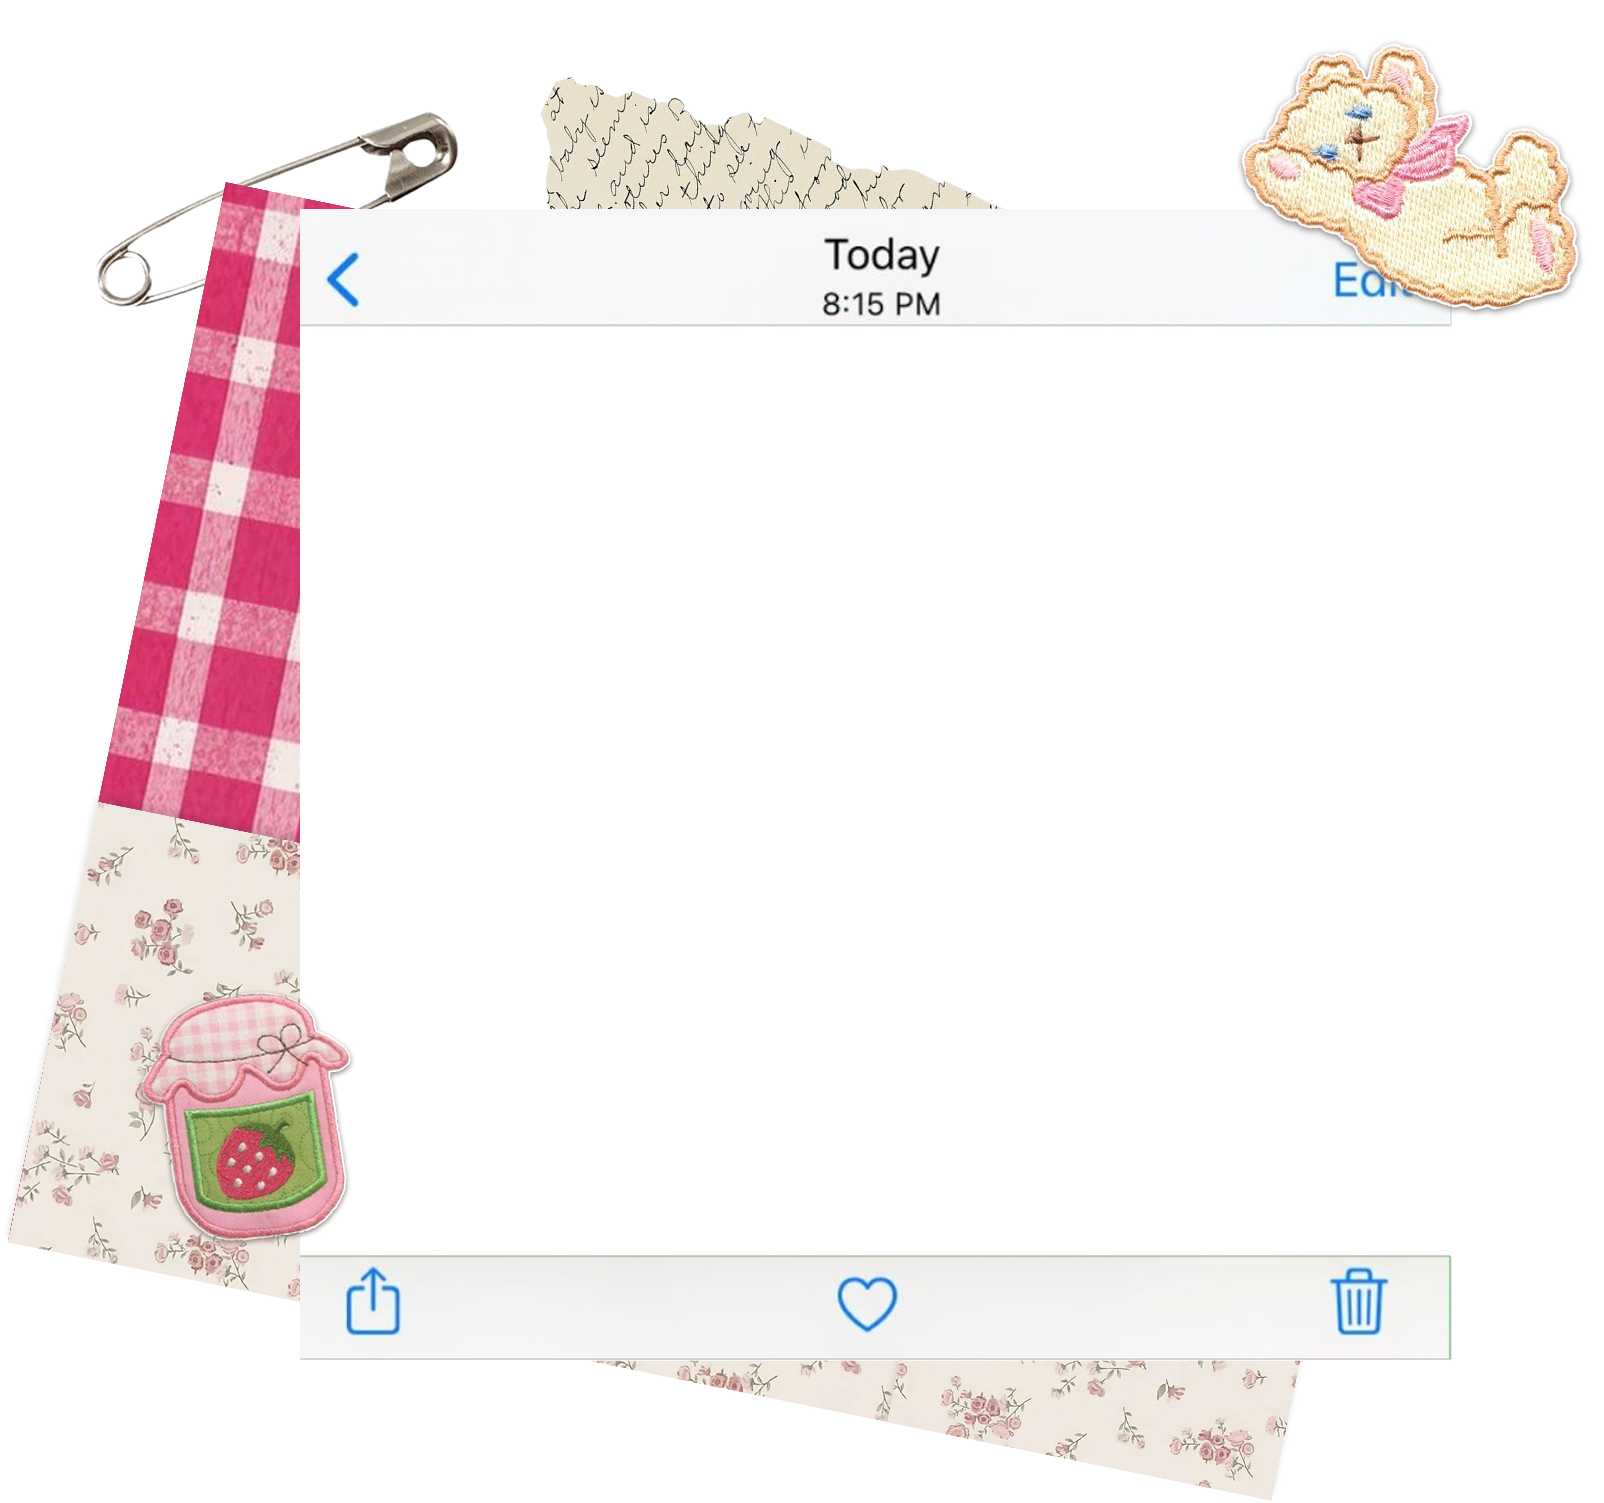
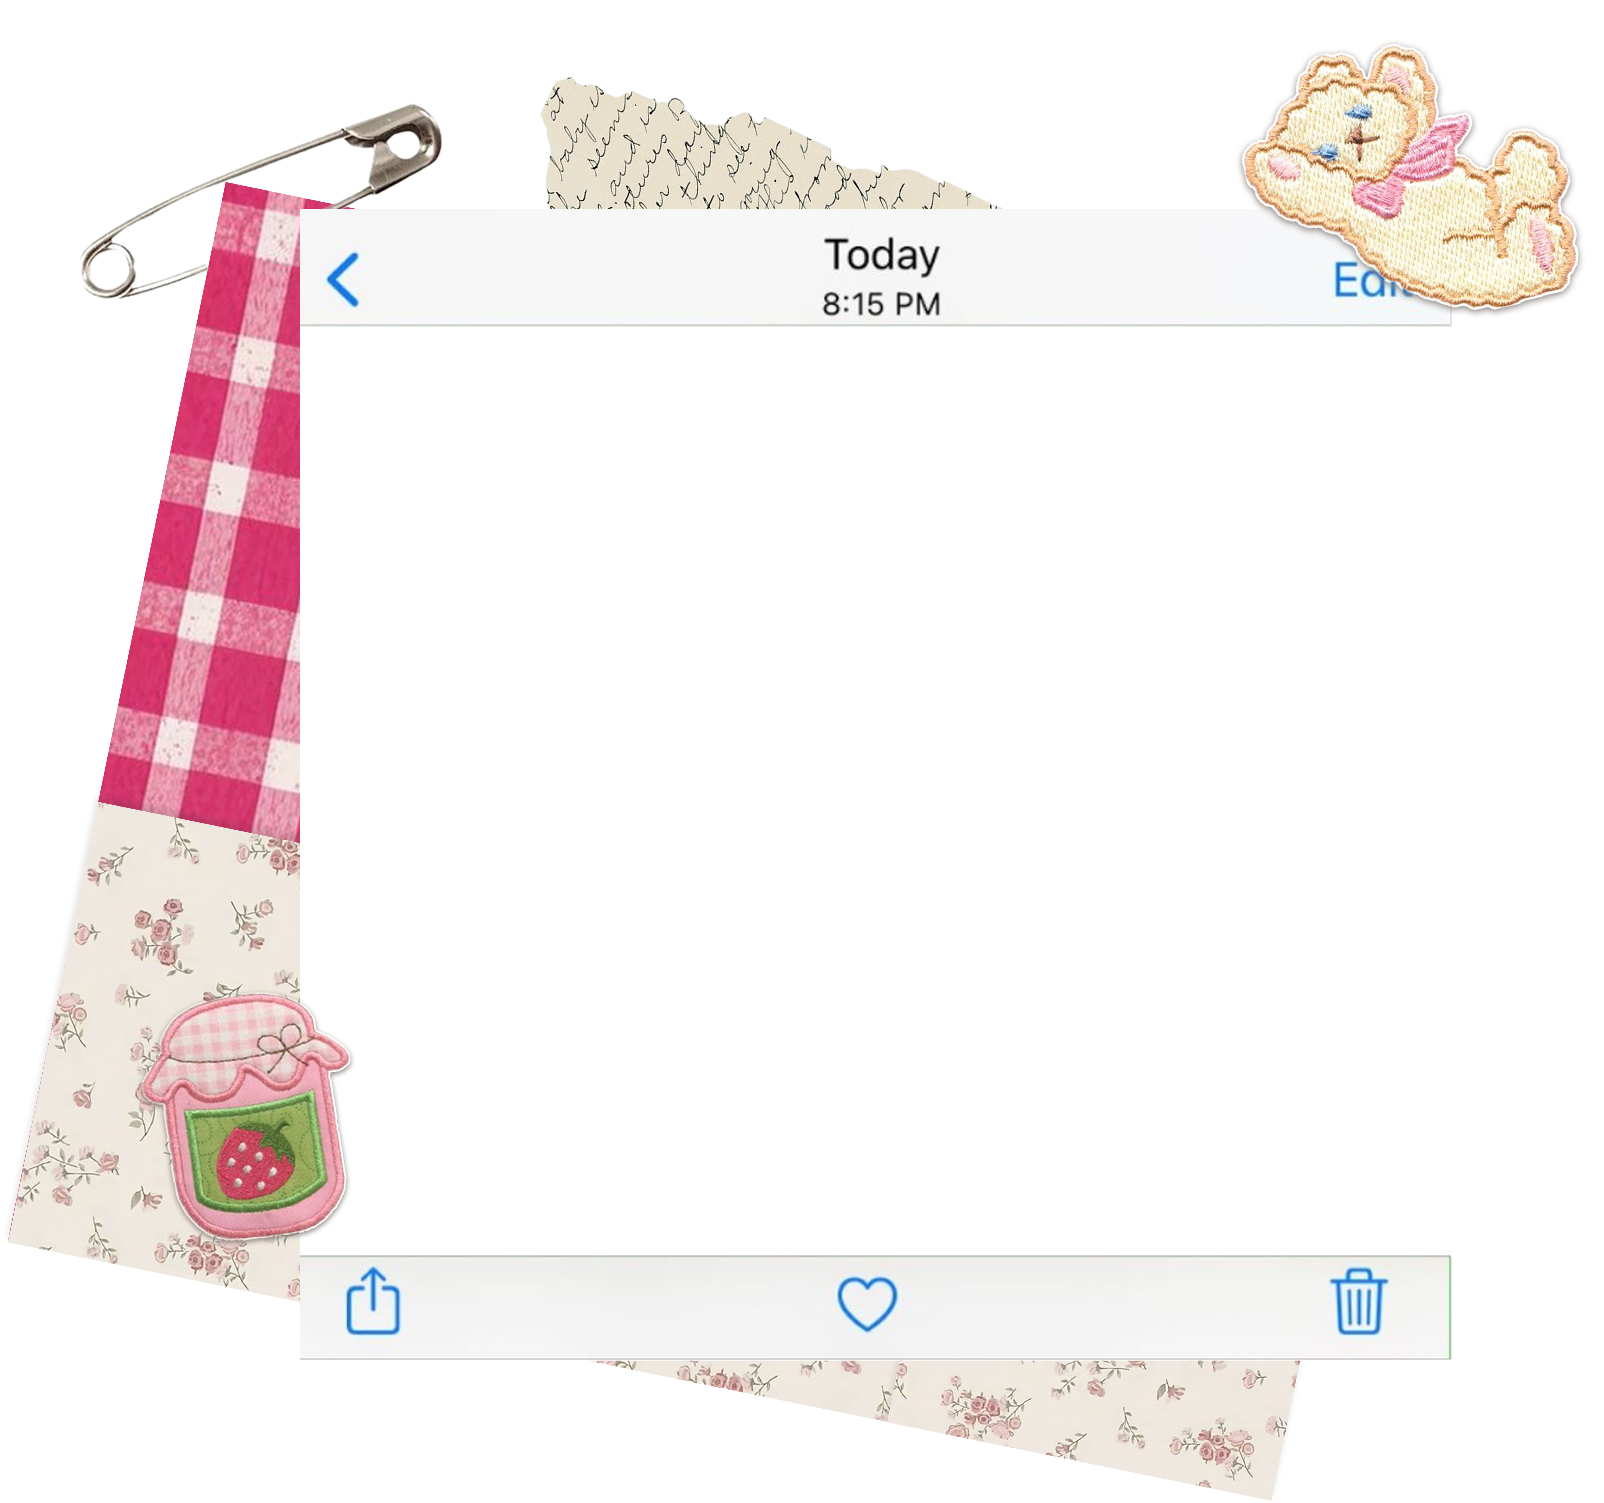
changes

Changed region(s): [[0.1247, 0.0612, 0.2805, 0.153], [0.0312, 0.1224, 0.1247, 0.2142]]

diff --git a/main.html b/main.html
@@ -53,8 +53,8 @@
             <span class="reaction-tray" id="reaction-tray"><span>✏</span><span>📐</span><span>🎨</span><span>✨</span></span>
             <span class="role-message"><span>A </span><span id="role-word">UX Designer</span></span>
           </div>
-          <img class="frame-art" src="Assets/Frame.png" alt="">
-          <img class="frame-art frame-jam-front" src="Assets/Frame.png" alt="" aria-hidden="true">
+          <img class="frame-art" src="Assets/Frame.png?v=20261125-2" alt="">
+          <img class="frame-art frame-jam-front" src="Assets/Frame.png?v=20261125-2" alt="" aria-hidden="true">
           <svg class="role-doodle bow-doodle is-active" viewBox="0 0 120 145" aria-hidden="true">
             <path class="ink" stroke-width="4" d="M58 48 C42 26 21 25 17 37 C10 53 30 66 56 53 M64 47 C84 26 102 30 103 43 C105 58 85 65 65 54"/>
             <path class="ink" stroke-width="3.4" d="M55 55 C43 74 25 91 28 111 C30 119 37 121 42 114 M65 55 C75 73 91 91 87 107 C84 115 79 114 77 109"/>

diff --git a/hero-video-preview.html b/hero-video-preview.html
@@ -82,8 +82,8 @@
         <span class="reaction-tray" id="reaction-tray"><span>✏</span><span>📐</span><span>🎨</span><span>✨</span></span>
         <span class="role-message"><span>A </span><span id="role-word">UX Designer</span></span>
       </div>
-      <img class="frame-art" src="Assets/Frame.png" alt="">
-      <img class="frame-art frame-jam-front" src="Assets/Frame.png" alt="" aria-hidden="true">
+      <img class="frame-art" src="Assets/Frame.png?v=20261125-2" alt="">
+      <img class="frame-art frame-jam-front" src="Assets/Frame.png?v=20261125-2" alt="" aria-hidden="true">
       <svg class="role-doodle bow-doodle is-active" viewBox="0 0 120 145" aria-hidden="true">
         <path class="ink" stroke-width="4" d="M58 48 C42 26 21 25 17 37 C10 53 30 66 56 53 M64 47 C84 26 102 30 103 43 C105 58 85 65 65 54"/>
         <path class="ink" stroke-width="3.4" d="M55 55 C43 74 25 91 28 111 C30 119 37 121 42 114 M65 55 C75 73 91 91 87 107 C84 115 79 114 77 109"/>
